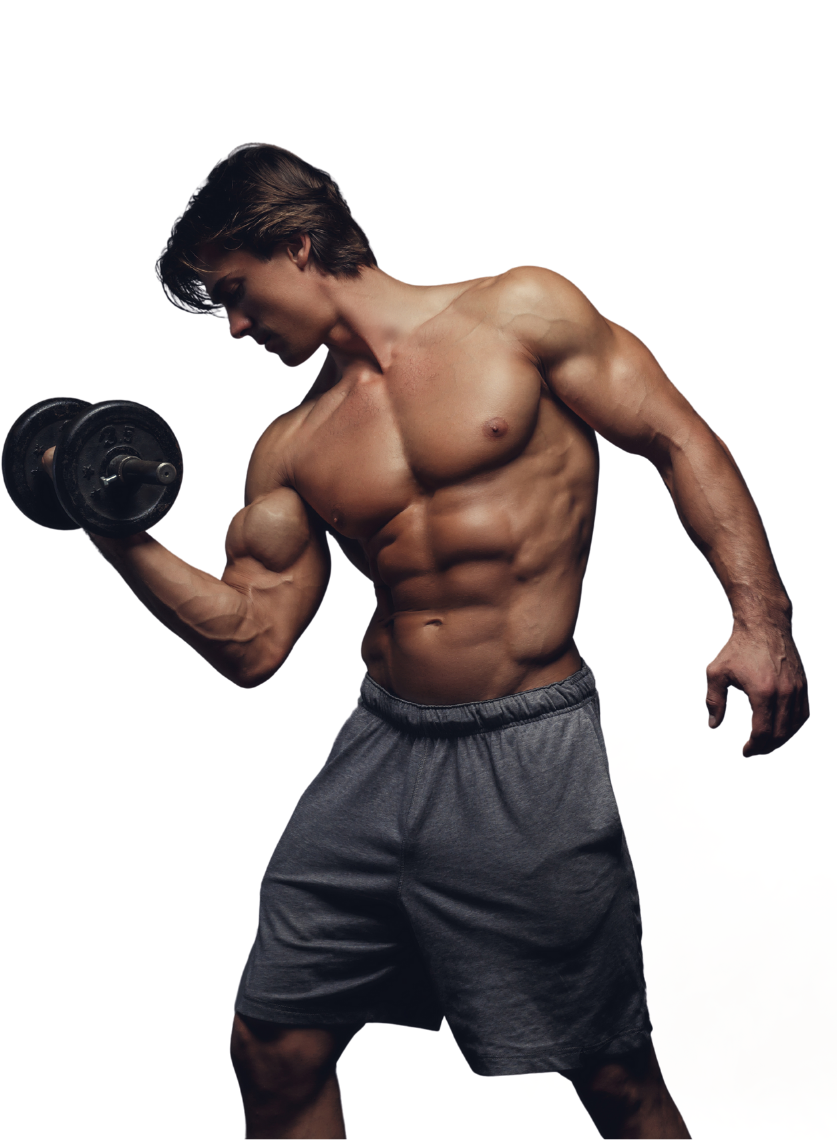
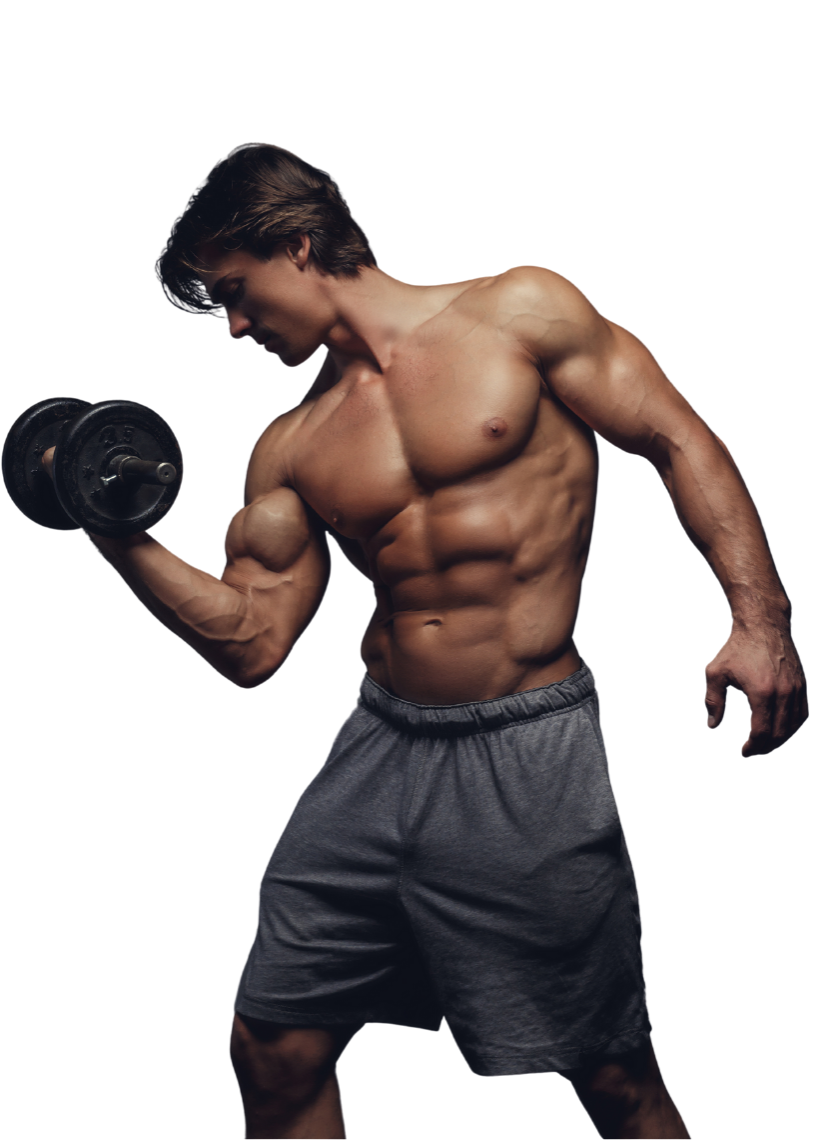
changes

Changed region(s): [[0.8387, 0.5833, 0.8698, 0.6447], [0.9319, 0.5526, 0.963, 0.5833]]

diff --git a/apps/templates/index.html b/apps/templates/index.html
@@ -64,9 +64,10 @@
                 </div>
                 <div class="nav-bar">
                   <ul>
-                    <li><a href="">Inicio</a></li>
-                    <li><a href="">Sobre Nosotros</a></li>
-                    <li><a href="">Contacto</a></li>
+                  <li><a href="">Fuerza</a></li>
+                  <li><a href="">Pasión</a></li>
+                  <li><a href="">Disciplina</a></li>
+                  <li><a href="">Superación</a></li>
                   </ul>
 
                   <div class="extras">
@@ -100,11 +101,12 @@
             <img src="../static/frontend/images/logo-2.png" alt="Responsive Logo" >
           </a>
         </div>
-        <ul>
-          <li><a href="">Inicio</a></li>
-          <li><a href="">Sobre Nosotros</a></li>
-          <li><a href="">Contacto</a></li>
-        </ul>
+      <ul>
+                  <li><a href="">Fuerza</a></li>
+                  <li><a href="">Pasión</a></li>
+                  <li><a href="">Disciplina</a></li>
+                  <li><a href="">Superación</a></li>
+                  </ul>
 
         <!-- Botón Iniciar Sesión para móvil -->
         <div style="text-align: center; margin-top: 1rem;">
@@ -452,11 +454,11 @@
     <div class="row reveal1 it-reveal-animation active">
 
       <!-- Entrenadora 1 -->
-      <div class="col-lg-6 col-md-6">
+      <div class="col-lg-4 col-md-6">
         <div class="team-data item">
           <div class="team-info position-relative" style="z-index: 1;">
-            <h3 class="position-relative" style="z-index: 2;">Paula Rodríguez Ulate</h3>
-            <p class="position-relative" style="z-index: 2;">Entrenadora Personal y Coach Funcional</p>
+            <h3 class="position-relative" style="z-index: 2;">Sandra Jiménez Jiménez</h3>
+            <p class="position-relative" style="z-index: 2;">Spinning y Coach Funcional</p>
             <div class="team-social-media position-relative" style="z-index: 2;">
               <a href="#"><i class="fa-brands fa-facebook-f"></i></a>
               <a href="#"><i class="fa-brands fa-twitter"></i></a>
@@ -471,14 +473,14 @@
           <!-- Imagen de la entrenadora (por encima del logo) -->
           <div class="team-image position-relative" style="z-index: 2;">
             <figure>
-              <img src="../static/frontend/images/Entrenadora-Eli.png" alt="Paula Rodríguez Ulate">
+              <img src="../static/frontend/images/Entrenadora-Sandra.png" alt=">Sandra Jiménez Jiménez">
             </figure>
           </div>
         </div>
       </div>
 
       <!-- Entrenadora 2 -->
-      <div class="col-lg-6 col-md-6">
+      <div class="col-lg-4 col-md-6">
         <div class="team-data item">
           <div class="team-info position-relative" style="z-index: 1;">
             <h3 class="position-relative" style="z-index: 2;">Eliuth Mairena Picado</h3>
@@ -503,10 +505,36 @@
         </div>
       </div>
 
+
+        <!-- Entrenadora 3 -->
+      <div class="col-lg-4 col-md-6">
+        <div class="team-data item">
+          <div class="team-info position-relative" style="z-index: 1;">
+            <h3 class="position-relative" style="z-index: 2;">Paula Rodríguez Ulate</h3>
+            <p class="position-relative" style="z-index: 2;">Entrenadora Personal y Coach Funcional</p>
+            <div class="team-social-media position-relative" style="z-index: 2;">
+              <a href="#"><i class="fa-brands fa-facebook-f"></i></a>
+              <a href="#"><i class="fa-brands fa-twitter"></i></a>
+              <a href="#"><i class="fa-brands fa-instagram"></i></a>
+            </div>
+            <!-- Logo decorativo al fondo -->
+            <img src="../static/frontend/images/logo-2.png"
+                 alt="logoo"
+                 class="position-absolute"
+                 style="top: 20px; left: 20px; width: 500px; opacity: 0.7; z-index: 0; pointer-events: none;">
+          </div>
+          <!-- Imagen de la entrenadora (por encima del logo) -->
+          <div class="team-image position-relative" style="z-index: 2;">
+            <figure>
+              <img src="../static/frontend/images/Entrenadora-Eli.png" alt="Paula Rodríguez Ulate">
+            </figure>
+          </div>
+        </div>
+      </div>
+
     </div>
   </div>
 </section>
-
 
   <!-- Team Style One End -->
 
@@ -594,7 +622,7 @@
           <div class="shape">
             <div class="video">
               <figure>
-                <img src="../static/frontend/images/video.jpg" alt="Video">
+                <img src="../static/frontend/images/Video.png" alt="Video">
               </figure>
               <a class="video-play-btn" data-fancybox="" href="https://www.youtube.com/watch?v=uNN62f55EV0">
                 <svg xmlns="http://www.w3.org/2000/svg" xmlns:xlink="http://www.w3.org/1999/xlink" width="35" height="56" viewBox="0 0 35 56"> <defs> <clipPath id="clip-video_arrow"> <rect width="35" height="56"/> </clipPath> </defs> <g id="video_arrow" data-name="video arrow" clip-path="url(#clip-video_arrow)"> <path id="Shape_1" data-name="Shape 1" d="M1362,5000.8,1327,4972V5027Z" transform="translate(-1326.998 -4971.996)" fill="rgba(0,0,0,0)"/> <path id="Shape_1_-_Outline" data-name="Shape 1 - Outline" d="M1333,5015.017l19.29-14.437L1333,4984.7v30.313M1327,5027V4972l35,28.807Z" transform="translate(-1326.998 -4971.996)"/> </g> </svg>

diff --git a/apps/db/repositories/BillRepository.py b/apps/db/repositories/BillRepository.py
@@ -1,4 +1,4 @@
-from datetime import datetime, timedelta, date
+from datetime import datetime, timedelta, date, datetime
 from collections import defaultdict
 import re
 from apps.db.models.Bill import Bill
@@ -6,6 +6,7 @@ from apps.db.models.Client import Client
 from apps.db.repositories.RepositoryBase import RepositoryBase
 from apps.db.db import db
 from sqlalchemy import text
+import pytz
 
 class BillRepository(RepositoryBase):
     
@@ -154,11 +155,19 @@ class BillRepository(RepositoryBase):
             for row in result:
                 group_key = row.group_key
 
-                if isinstance(group_key, (datetime, date)):
-                    group_key = (
-                        group_key.strftime('%Y-%m-%d') if group_by == 'diaria'
-                        else group_key.strftime('%Y-%m')
-                    )
+                # Normaliza el group_key a string según el tipo de agrupación
+                if group_by == 'diaria':
+                    if isinstance(group_key, (datetime, date)):
+                        group_key = group_key.strftime('%Y-%m-%d')
+                    else:
+                        group_key = str(group_key)
+                elif group_by == 'mensual':
+                    if isinstance(group_key, (datetime, date)):
+                        group_key = group_key.strftime('%Y-%m')
+                    else:
+                        group_key = str(group_key)
+                elif group_by == 'semanal':
+                    group_key = str(group_key)  # YEARWEEK ya devuelve un int o string
 
                 report = {
                     'ID_Factura': row.ID_Factura,
@@ -329,20 +338,20 @@ class BillRepository(RepositoryBase):
             return "No se logro obtener la duracion"
         return True
 
-    @classmethod
-    def getDataMembershipClient(self, membership_id):
-        try:
-            result = self.findOneFiltered(
-                column_names=["Duracion_Dias"],
-                filters={"ID_Membresia": membership_id}
-            )
+    # @classmethod
+    # def getDataMembershipClient(self, membership_id):
+    #     try:
+    #         result = self.findOneFiltered(
+    #             column_names=["Duracion_Dias"],
+    #             filters={"ID_Membresia": membership_id}
+    #         )
 
-            if result:
-                return result["Duracion_Dias"]
-            return None
-        except Exception as ex:
-            print(f"Error al obtener duración de la membresía: {ex}")
-            return None
+    #         if result:
+    #             return result["Duracion_Dias"]
+    #         return None
+    #     except Exception as ex:
+    #         print(f"Error al obtener duración de la membresía: {ex}")
+    #         return None
 
 
     @classmethod
@@ -368,7 +377,8 @@ class BillRepository(RepositoryBase):
         if membership_days is None:
             return "Tipo de membresía no encontrado"
         # Obtener la fecha actual
-        fecha_ingreso = datetime.now()
+        zona = pytz.timezone("America/Costa_Rica")
+        fecha_ingreso = datetime.now(zona)
 
         # Calcular la fecha de vencimiento sumando los días de la membresía
         vencimiento_membresia = fecha_ingreso + timedelta(days=membership_days)

diff --git a/apps/routes/login_app.py b/apps/routes/login_app.py
@@ -6,11 +6,9 @@ from apps.db.repositories.ClientRepository import ClientRepository
 import serial
 import requests
 from datetime import date,datetime
-from zoneinfo import ZoneInfo
-
 from apps.controllers.user_controller import userController
 from apps.controllers.client_controller import clientController
-
+import pytz
 
 login_app = Blueprint('login_app', __name__)
 
@@ -64,7 +62,7 @@ def entryInstallation():
                 if client.is_member_active():
 
                     # Verificamos si ya ingresó hoy
-                    cr_time = datetime.now(ZoneInfo("America/Costa_Rica"))
+                    cr_time = datetime.now(pytz.timezone("America/Costa_Rica"))
                     today_cr = cr_time.date()
 
                     if client.EntranceDoor is not None and client.EntranceDoor == today_cr:

diff --git a/apps/db/repositories/ClientRepository.py b/apps/db/repositories/ClientRepository.py
@@ -6,8 +6,9 @@ from apps.db.models.Notification import Notification
 import re
 from pymysql import IntegrityError
 from datetime import date
-from zoneinfo import ZoneInfo
 from apps.db.repositories.RepositoryBase import RepositoryBase
+import pytz
+
 
 
 class ClientRepository(RepositoryBase):
@@ -167,7 +168,7 @@ class ClientRepository(RepositoryBase):
         return self.update(client_id, State=1) 
     
     def able_Entry(self, client_id):
-        cr_time = datetime.now(ZoneInfo("America/Costa_Rica"))
+        cr_time = datetime.now(pytz.timezone("America/Costa_Rica"))
         today = cr_time.date()
         return self.update(client_id, EntranceDoor=today)
 
